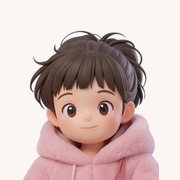
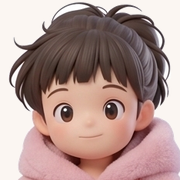
아이콘 못난이 얼굴을 크게 — 얼굴 둘레로 좁혀 자르고 캔버스를 꽉 채움
favicon.ico·icon-192·apple-touch-icon 교체, 탭 캐시를 피하려고 다섯 쪽 아이콘 주소에 ?v=2.

diff --git a/webtoon.html b/webtoon.html
@@ -11,9 +11,9 @@
 <meta property="og:title" content="웹툰 · 못난이삼돌이 영문법">
 <meta property="og:description" content="영문법 56과가 그대로 들어간 웹툰 「우리들의 리듬」(1~32과)과 「할머니의 여름 목록」(33~56과). 한 화가 한 과다.">
 <meta property="og:url" content="https://unprettydaughters.github.io/mot-sam-grammar/webtoon.html">
-<link rel="icon" href="favicon.ico" sizes="48x48">
-<link rel="icon" type="image/png" href="icon-192.png" sizes="192x192">
-<link rel="apple-touch-icon" href="apple-touch-icon.png">
+<link rel="icon" href="favicon.ico?v=2" sizes="48x48">
+<link rel="icon" type="image/png" href="icon-192.png?v=2" sizes="192x192">
+<link rel="apple-touch-icon" href="apple-touch-icon.png?v=2">
 <meta property="og:image" content="https://unprettydaughters.github.io/mot-sam-grammar/og-default.jpg">
 <meta property="og:image:width" content="1200">
 <meta property="og:image:height" content="630">

diff --git a/grammar.html b/grammar.html
@@ -11,9 +11,9 @@
 <meta property="og:title" content="영문법 전체 목록 — 못난이삼돌이 영문법">
 <meta property="og:description" content="못난이삼돌이 영문법 전체 목록. 하루 한 과씩, 번호를 누르면 읽은 과로 표시돼.">
 <meta property="og:url" content="https://unprettydaughters.github.io/mot-sam-grammar/grammar.html">
-<link rel="icon" href="favicon.ico" sizes="48x48">
-<link rel="icon" type="image/png" href="icon-192.png" sizes="192x192">
-<link rel="apple-touch-icon" href="apple-touch-icon.png">
+<link rel="icon" href="favicon.ico?v=2" sizes="48x48">
+<link rel="icon" type="image/png" href="icon-192.png?v=2" sizes="192x192">
+<link rel="apple-touch-icon" href="apple-touch-icon.png?v=2">
 <meta property="og:image" content="https://unprettydaughters.github.io/mot-sam-grammar/og-default.jpg">
 <meta property="og:image:width" content="1200">
 <meta property="og:image:height" content="630">

diff --git a/links.html b/links.html
@@ -11,9 +11,9 @@
 <meta property="og:title" content="링크 · 못난이삼돌이 영문법">
 <meta property="og:description" content="못난이삼돌이가 만든 것과, 매일 쓰는 곳. 너무쉬운AI 사이트, 삼돌이 영어, 못삼플래너.">
 <meta property="og:url" content="https://unprettydaughters.github.io/mot-sam-grammar/links.html">
-<link rel="icon" href="favicon.ico" sizes="48x48">
-<link rel="icon" type="image/png" href="icon-192.png" sizes="192x192">
-<link rel="apple-touch-icon" href="apple-touch-icon.png">
+<link rel="icon" href="favicon.ico?v=2" sizes="48x48">
+<link rel="icon" type="image/png" href="icon-192.png?v=2" sizes="192x192">
+<link rel="apple-touch-icon" href="apple-touch-icon.png?v=2">
 <meta property="og:image" content="https://unprettydaughters.github.io/mot-sam-grammar/og-default.jpg">
 <meta property="og:image:width" content="1200">
 <meta property="og:image:height" content="630">

diff --git a/index.html b/index.html
@@ -11,9 +11,9 @@
 <meta property="og:title" content="못난이삼돌이 영문법">
 <meta property="og:description" content="복잡한 문법 용어는 다 뺐어. 아는 단어로 순서만 지키면 돼. 하루 한 과씩 카드뉴스로.">
 <meta property="og:url" content="https://unprettydaughters.github.io/mot-sam-grammar/">
-<link rel="icon" href="favicon.ico" sizes="48x48">
-<link rel="icon" type="image/png" href="icon-192.png" sizes="192x192">
-<link rel="apple-touch-icon" href="apple-touch-icon.png">
+<link rel="icon" href="favicon.ico?v=2" sizes="48x48">
+<link rel="icon" type="image/png" href="icon-192.png?v=2" sizes="192x192">
+<link rel="apple-touch-icon" href="apple-touch-icon.png?v=2">
 <meta property="og:image" content="https://unprettydaughters.github.io/mot-sam-grammar/og-default.jpg">
 <meta property="og:image:width" content="1200">
 <meta property="og:image:height" content="630">

diff --git a/card.html b/card.html
@@ -9,9 +9,9 @@
 <meta property="og:locale" content="ko_KR">
 <meta property="og:title" content="못난이삼돌이 영문법">
 <meta property="og:description" content="복잡한 문법 용어는 다 뺐어. 아는 단어로 순서만 지키면 돼. 하루 한 과씩 카드뉴스로.">
-<link rel="icon" href="favicon.ico" sizes="48x48">
-<link rel="icon" type="image/png" href="icon-192.png" sizes="192x192">
-<link rel="apple-touch-icon" href="apple-touch-icon.png">
+<link rel="icon" href="favicon.ico?v=2" sizes="48x48">
+<link rel="icon" type="image/png" href="icon-192.png?v=2" sizes="192x192">
+<link rel="apple-touch-icon" href="apple-touch-icon.png?v=2">
 <meta property="og:image" content="https://unprettydaughters.github.io/mot-sam-grammar/og-default.jpg">
 <meta property="og:image:width" content="1200">
 <meta property="og:image:height" content="630">
